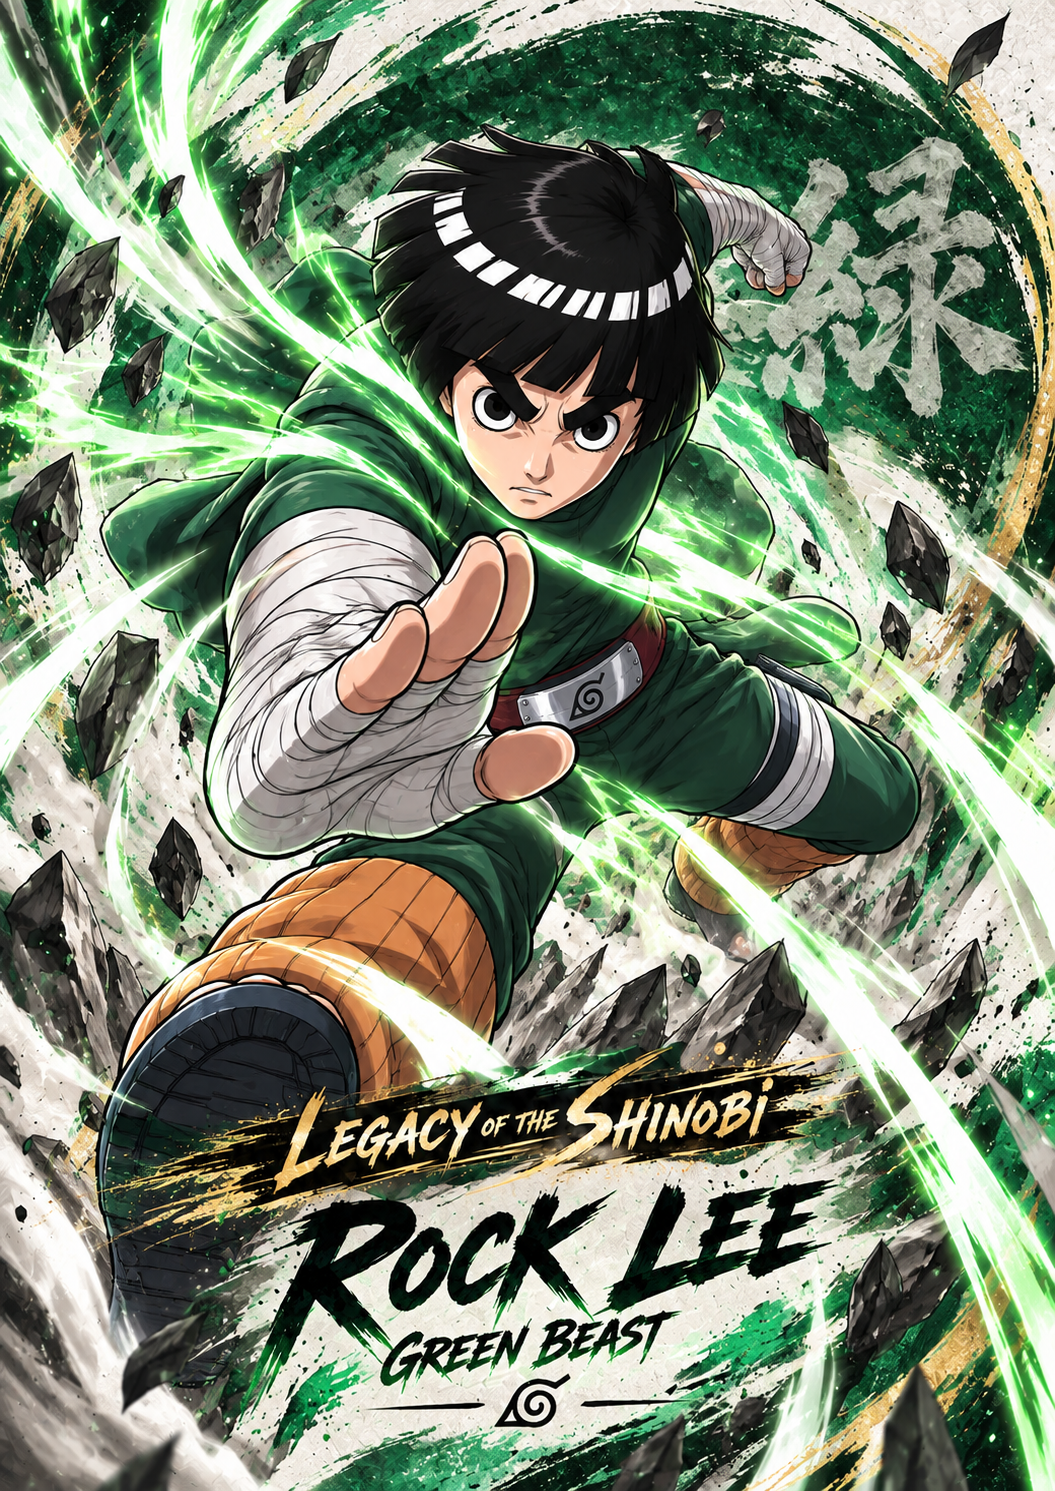
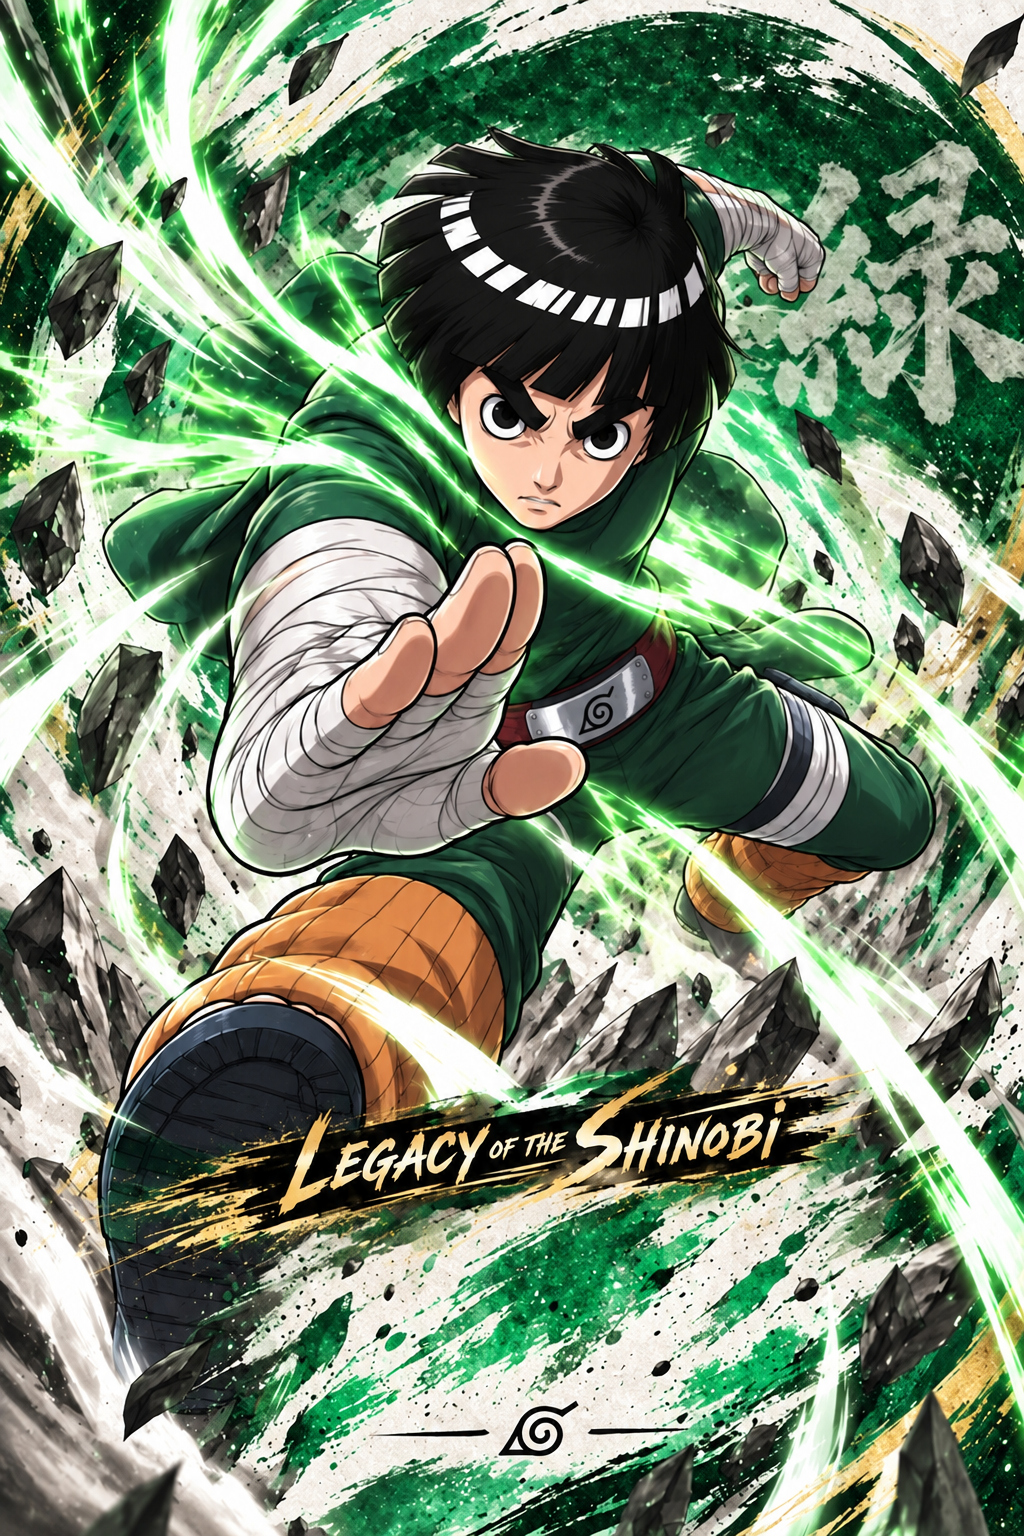
Replace Legacy Shinobi card art with clean assets

diff --git a/runtime/ui/progression/progression.js b/runtime/ui/progression/progression.js
@@ -17,15 +17,15 @@ const CARD_ART={
  'Senku':'assets/characters/senku/cards/senku_card.jpeg',
  'Tyler':'assets/characters/tyler/cards/current_collection_card.png',
  'Itachi':'assets/characters/itachi/art/itachi_full_art.png',
- 'Kakashi':'assets/events/legacy-of-shinobi/package-v1/legacy_of_the_shinobi_banner_pack_v1_under25/kakashi/card_art.webp',
- 'Obito':'assets/events/legacy-of-shinobi/package-v1/legacy_of_the_shinobi_banner_pack_v1_under25/obito/card_art.webp',
- 'Jiraiya':'assets/events/legacy-of-shinobi/package-v1/legacy_of_the_shinobi_banner_pack_v1_under25/jiraiya/card_art.webp',
- 'Sasuke':'assets/events/legacy-of-shinobi/package-v1/legacy_of_the_shinobi_banner_pack_v1_under25/sasuke/card_art.webp',
- 'Pain':'assets/events/legacy-of-shinobi/package-v1/legacy_of_the_shinobi_banner_pack_v1_under25/pain/card_art.webp',
- 'Scorpion':'assets/events/legacy-of-shinobi/package-v1/legacy_of_the_shinobi_banner_pack_v1_under25/scorpion/card_art.webp',
- 'Rock Lee':'assets/events/legacy-of-shinobi/package-v2/legacy_of_the_shinobi_banner_pack_v2/rock_lee/card_art.png',
- 'Mashle':'assets/events/legacy-of-shinobi/package-v2/legacy_of_the_shinobi_banner_pack_v2/mashle/card_art.png',
- 'Jackie Chan':'assets/events/legacy-of-shinobi/package-v2/legacy_of_the_shinobi_banner_pack_v2/jackie_chan/card_art.png',
+ 'Kakashi':'assets/characters/kakashi/cards/legacy_of_shinobi_card.webp',
+ 'Obito':'assets/characters/obito/cards/legacy_of_shinobi_card.webp',
+ 'Jiraiya':'assets/characters/jiraiya/cards/legacy_of_shinobi_card.webp',
+ 'Sasuke':'assets/characters/sasuke/cards/legacy_of_shinobi_card.webp',
+ 'Pain':'assets/characters/pain/cards/legacy_of_shinobi_card.webp',
+ 'Scorpion':'assets/characters/scorpion/cards/legacy_of_shinobi_card.webp',
+ 'Rock Lee':'assets/characters/rock_lee/cards/legacy_of_shinobi_card.png',
+ 'Mashle':'assets/characters/mashle/cards/legacy_of_shinobi_card.png',
+ 'Jackie Chan':'assets/characters/jackie_chan/cards/legacy_of_shinobi_card.png',
  'Gabimaru':'assets/events/legacy-of-shinobi/package-v3/legacy_of_the_shinobi_banner_pack_v3_clean_cards/gabimaru/card_art.png',
  'Killua':'assets/events/legacy-of-shinobi/package-v3/legacy_of_the_shinobi_banner_pack_v3_clean_cards/killua/card_art.png',
  'Zabuza':'assets/events/legacy-of-shinobi/package-v3/legacy_of_the_shinobi_banner_pack_v3_clean_cards/zabuza/card_art.png'

diff --git a/runtime/ui/home/home-v9-runtime.js b/runtime/ui/home/home-v9-runtime.js
@@ -60,7 +60,7 @@ function ensureStyle(){
 #${SHELL_ID}.bb-home-v9 .bb-home-v4-util-btn{width:clamp(36px,6.1vw,46px)!important;height:clamp(43px,7.1vw,54px)!important;filter:drop-shadow(0 4px 5px rgba(0,0,0,.34)) sepia(.08)!important}
 #${SHELL_ID}.bb-home-v9 .bb-home-v4-social{top:clamp(79px,10.4vh,98px)!important;gap:4px!important}
 #${SHELL_ID}.bb-home-v9 .bb-home-v4-social button{width:clamp(31px,5.4vw,40px)!important;height:clamp(31px,5.4vw,40px)!important;filter:sepia(.08) drop-shadow(0 4px 5px rgba(0,0,0,.3))!important}
-#${SHELL_ID}.bb-home-v9 .bb-home-v9-legacy-banner{position:absolute;z-index:13;right:max(14px,env(safe-area-inset-right));bottom:calc(var(--bb-home-v9-dock-h) + 64px);width:clamp(116px,17vw,158px);aspect-ratio:1.08/1;border:1px solid rgba(239,213,161,.55);border-radius:15px 4px 15px 4px;overflow:hidden;padding:0;cursor:pointer;background:linear-gradient(180deg,rgba(12,14,21,.06),rgba(12,12,18,.86)),url("assets/events/legacy-of-shinobi/package-v1/legacy_of_the_shinobi_banner_pack_v1_under25/kakashi/card_art.webp") center 18%/cover no-repeat;box-shadow:0 11px 24px rgba(0,0,0,.38),inset 0 0 0 2px rgba(255,238,197,.08);color:#fff5df;text-align:left}
+#${SHELL_ID}.bb-home-v9 .bb-home-v9-legacy-banner{position:absolute;z-index:13;right:max(14px,env(safe-area-inset-right));bottom:calc(var(--bb-home-v9-dock-h) + 64px);width:clamp(116px,17vw,158px);aspect-ratio:1.08/1;border:1px solid rgba(239,213,161,.55);border-radius:15px 4px 15px 4px;overflow:hidden;padding:0;cursor:pointer;background:linear-gradient(180deg,rgba(12,14,21,.06),rgba(12,12,18,.86)),url("assets/characters/kakashi/cards/legacy_of_shinobi_card.webp") center 18%/cover no-repeat;box-shadow:0 11px 24px rgba(0,0,0,.38),inset 0 0 0 2px rgba(255,238,197,.08);color:#fff5df;text-align:left}
 #${SHELL_ID}.bb-home-v9 .bb-home-v9-legacy-banner:before{content:'LIMITED BANNER';position:absolute;left:7px;top:7px;padding:4px 5px;background:#8a2730;color:#fff2df;font:800 6px/1 ${FONT};letter-spacing:.14em;box-shadow:0 2px 5px rgba(0,0,0,.3)}
 #${SHELL_ID}.bb-home-v9 .bb-home-v9-legacy-banner:after{content:'';position:absolute;inset:5px;border:1px solid rgba(237,204,139,.32);border-radius:10px 2px 10px 2px;pointer-events:none}
 #${SHELL_ID}.bb-home-v9 .bb-home-v9-legacy-copy{position:absolute;z-index:2;left:8px;right:8px;bottom:8px;text-shadow:0 2px 5px #000}
